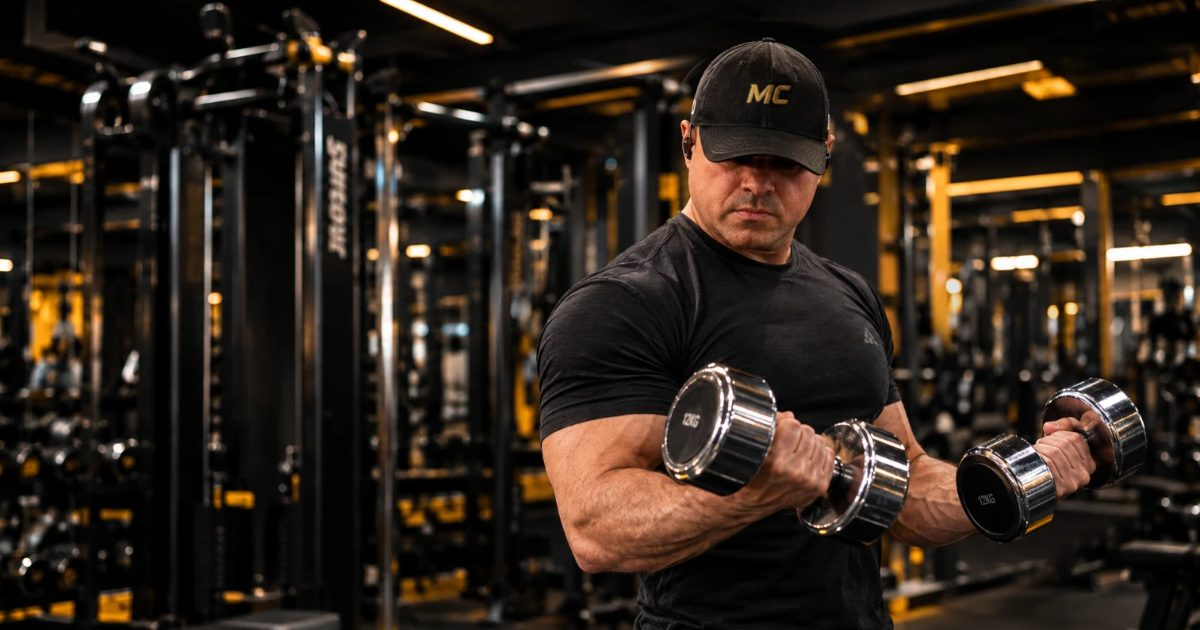
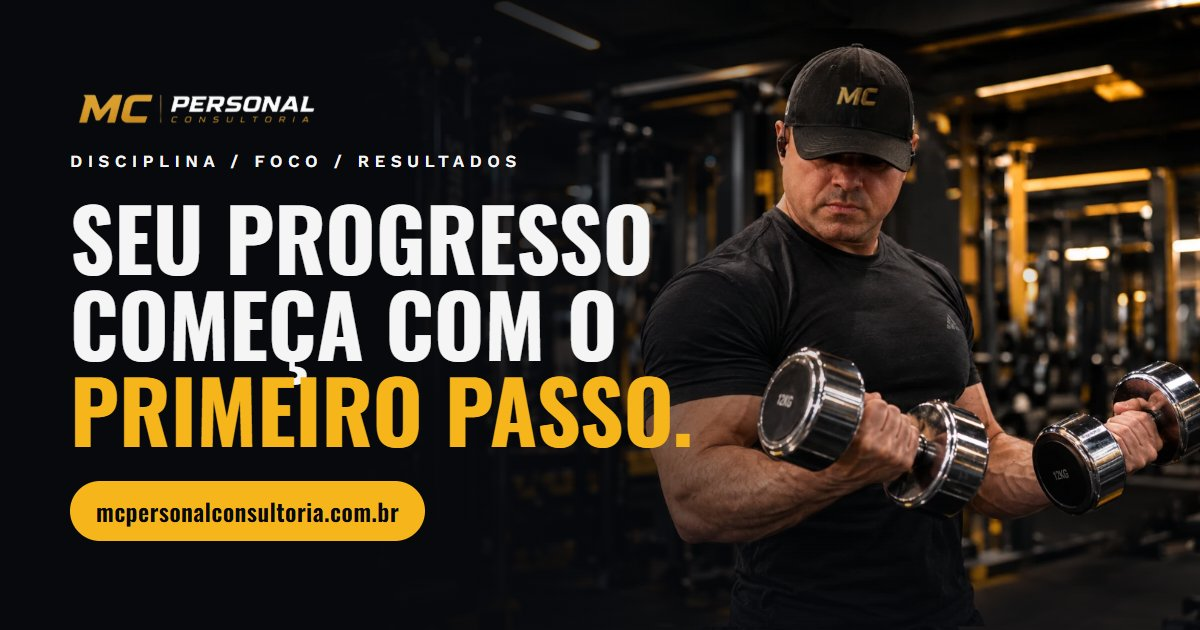
aponta o site para o domínio próprio e adiciona página 404 e llms.txt
- canonical, og, JSON-LD, sitemap e robots com mcpersonalconsultoria.com.br
- nova imagem de compartilhamento no estilo do hero
- 404.html para o Cloudflare Pages responder 404 em endereços que não existem
- llms.txt com o resumo do site para assistentes de IA

diff --git a/404.html b/404.html
@@ -1,0 +1,80 @@
+<!doctype html>
+<html lang="pt-BR">
+  <head>
+    <meta charset="UTF-8" />
+    <meta name="viewport" content="width=device-width, initial-scale=1.0" />
+    <meta name="robots" content="noindex" />
+    <meta name="theme-color" content="#07090d" />
+    <title>Página não encontrada | MC Personal Consultoria</title>
+    <link rel="icon" href="/assets/favicon.png" />
+    <link rel="preconnect" href="https://fonts.googleapis.com" />
+    <link rel="preconnect" href="https://fonts.gstatic.com" crossorigin />
+    <!-- caminhos começam com / porque esta página aparece em qualquer endereço que não existe -->
+    <link rel="stylesheet" href="/css/style.css" />
+  </head>
+  <body>
+    <svg class="icons" hidden>
+      <symbol id="icon-whatsapp" viewBox="0 0 24 24">
+        <path
+          fill="currentColor"
+          d="M17.47 14.38c-.3-.15-1.76-.87-2.03-.97-.27-.1-.47-.15-.67.15-.2.3-.77.97-.94 1.16-.17.2-.35.22-.64.07-.3-.15-1.26-.46-2.39-1.47-.88-.79-1.48-1.76-1.65-2.06-.17-.3-.02-.46.13-.61.13-.13.3-.35.45-.52.15-.17.2-.3.3-.5.1-.2.05-.37-.03-.52-.07-.15-.67-1.61-.92-2.21-.24-.58-.49-.5-.67-.51h-.57c-.2 0-.52.07-.79.37-.27.3-1.04 1.02-1.04 2.48 0 1.46 1.07 2.88 1.21 3.07.15.2 2.1 3.2 5.08 4.49.71.31 1.26.49 1.7.63.71.23 1.36.2 1.87.12.57-.09 1.76-.72 2.01-1.41.25-.7.25-1.29.17-1.41-.07-.13-.27-.2-.57-.35m-5.42 7.4h-.01a9.87 9.87 0 0 1-5.03-1.38l-.36-.21-3.74.98 1-3.65-.24-.37a9.86 9.86 0 0 1-1.51-5.26c0-5.45 4.44-9.88 9.89-9.88 2.64 0 5.12 1.03 6.99 2.9a9.83 9.83 0 0 1 2.89 6.99c0 5.45-4.44 9.88-9.88 9.88m8.41-18.3A11.82 11.82 0 0 0 12.05 0C5.5 0 .16 5.34.16 11.89c0 2.1.55 4.14 1.59 5.95L.06 24l6.3-1.65a11.88 11.88 0 0 0 5.68 1.45h.01c6.55 0 11.89-5.34 11.89-11.89a11.82 11.82 0 0 0-3.48-8.41Z"
+        />
+      </symbol>
+      <symbol id="icon-arrow" viewBox="0 0 24 24">
+        <g
+          fill="none"
+          stroke="currentColor"
+          stroke-width="2"
+          stroke-linecap="round"
+          stroke-linejoin="round"
+        >
+          <path d="M5 12h14" />
+          <path d="m12 5 7 7-7 7" />
+        </g>
+      </symbol>
+    </svg>
+
+    <main>
+      <section class="not-found">
+        <div class="not-found-content">
+          <a class="not-found-logo" href="/">
+            <img
+              class="not-found-img"
+              src="/assets/logo.webp"
+              alt="Logo da MC Personal Consultoria"
+              width="480"
+              height="75"
+            />
+          </a>
+          <div class="not-found-copy">
+            <p class="not-found-number" aria-hidden="true">404</p>
+            <h1 class="section-headline">
+              Página <span class="destaque">não encontrada</span>
+            </h1>
+            <p class="not-found-text">
+              O endereço que você procurou não existe ou mudou de lugar. Volte
+              para o início e conheça a consultoria.
+            </p>
+            <a class="primary-button" href="/">
+              Voltar para o início
+              <svg class="button-icon" aria-hidden="true">
+                <use href="#icon-arrow" />
+              </svg>
+            </a>
+            <a
+              class="not-found-link"
+              href="https://wa.me/556181482244?text=Olá!%20Vim%20pelo%20site%20e%20quero%20começar."
+              target="_blank"
+              rel="noopener noreferrer"
+            >
+              <svg class="not-found-link-img" aria-hidden="true">
+                <use href="#icon-whatsapp" />
+              </svg>
+              Ou fale com a gente pelo WhatsApp
+            </a>
+          </div>
+        </div>
+      </section>
+    </main>
+  </body>
+</html>

diff --git a/css/not-found.css b/css/not-found.css
@@ -1,0 +1,96 @@
+/*==========mobile==========*/
+/* página de endereço inexistente (404.html): ocupa a tela toda, com o Márcio de costas ao fundo */
+.not-found {
+  display: flex;
+  align-items: center;
+  min-height: 100vh;
+  min-height: 100svh;
+  padding: 3rem 1rem;
+  background-color: var(--background-color);
+  background-image:
+    linear-gradient(
+      180deg,
+      var(--overlay-medium-color),
+      var(--overlay-color)
+    ),
+    url("../assets/bg-cta.webp");
+  background-position: 80% center;
+  background-size: cover;
+}
+.not-found-content {
+  display: flex;
+  flex-direction: column;
+  gap: 3rem;
+  width: 100%;
+  max-width: var(--container-width);
+  margin-inline: auto;
+}
+/* o link do logo ocupa só o tamanho da imagem, não a largura toda */
+.not-found-logo {
+  display: flex;
+  align-self: flex-start;
+}
+.not-found-img {
+  width: 180px;
+  height: auto;
+}
+.not-found-copy {
+  display: flex;
+  flex-direction: column;
+  align-items: flex-start;
+  gap: 1.25rem;
+  max-width: 520px;
+}
+/* número grande só com o contorno, para não brigar com o título */
+.not-found-number {
+  font-family: var(--ftitle);
+  font-size: var(--fs-xg);
+  font-weight: var(--title-weight);
+  color: transparent;
+  line-height: 1;
+  -webkit-text-stroke: 2px var(--primary-color);
+}
+.not-found-text {
+  font-size: var(--fs-base);
+  color: var(--text-color);
+  line-height: 1.6;
+}
+.not-found-link {
+  display: flex;
+  align-items: center;
+  gap: 0.6rem;
+  font-size: var(--fs-detail);
+  color: var(--title-color);
+  text-decoration: underline;
+  text-underline-offset: 0.2em;
+  transition: all 0.3s;
+}
+.not-found-link:hover {
+  color: var(--primary-color);
+}
+.not-found-link-img {
+  width: 20px;
+  height: 20px;
+  color: var(--whatsapp-color);
+}
+/*==========tablet==========*/
+/* a partir do tablet o Márcio fica à direita e o texto ocupa o lado escuro */
+@media screen and (min-width: 768px) {
+  .not-found {
+    padding: 4rem 2rem;
+    background-image:
+      linear-gradient(
+        90deg,
+        var(--overlay-color) 35%,
+        var(--overlay-light-color)
+      ),
+      url("../assets/bg-cta.webp");
+    background-position: right center;
+  }
+  .not-found-img {
+    width: 220px;
+  }
+  .not-found-number {
+    font-size: calc(var(--fs-xg) * 1.6);
+  }
+}

diff --git a/index.html b/index.html
@@ -19,20 +19,20 @@
       property="og:description"
       content="Consultoria e treino online com Márcio Carvalho, personal trainer de Brasília. Treinos personalizados e acompanhamento de perto para todo o Brasil."
     />
-    <!-- URLs da Vercel: trocar quando o site tiver domínio próprio -->
-    <meta property="og:url" content="https://mcpersonal.vercel.app/" />
+    <!-- URLs absolutas do domínio próprio: se o domínio mudar, trocar aqui, no sitemap.xml e no robots.txt -->
+    <meta property="og:url" content="https://mcpersonalconsultoria.com.br/" />
     <meta
       property="og:image"
-      content="https://mcpersonal.vercel.app/assets/og-image.jpg"
+      content="https://mcpersonalconsultoria.com.br/assets/og-image.jpg"
     />
     <meta property="og:image:width" content="1200" />
     <meta property="og:image:height" content="630" />
     <meta
       property="og:image:alt"
-      content="Márcio Carvalho, personal trainer, treinando com halteres na academia"
+      content="Márcio Carvalho treinando com halteres ao lado da frase Seu progresso começa com o primeiro passo"
     />
     <meta name="twitter:card" content="summary_large_image" />
-    <link rel="canonical" href="https://mcpersonal.vercel.app/" />
+    <link rel="canonical" href="https://mcpersonalconsultoria.com.br/" />
     <link rel="icon" href="assets/favicon.png" />
     <!-- a foto do hero está no CSS e só seria achada depois da cadeia de @import; o preload antecipa -->
     <link
@@ -56,9 +56,9 @@
         "@type": "ProfessionalService",
         "name": "MC Personal Consultoria",
         "description": "Consultoria e treino online com personal trainer: treinos personalizados, ajustados toda semana à rotina do aluno, com acompanhamento de perto.",
-        "url": "https://mcpersonal.vercel.app/",
-        "image": "https://mcpersonal.vercel.app/assets/og-image.jpg",
-        "logo": "https://mcpersonal.vercel.app/assets/logo.webp",
+        "url": "https://mcpersonalconsultoria.com.br/",
+        "image": "https://mcpersonalconsultoria.com.br/assets/og-image.jpg",
+        "logo": "https://mcpersonalconsultoria.com.br/assets/logo.webp",
         "telephone": "+55 61 8148-2244",
         "email": "mcpersonalconsultoria@gmail.com",
         "address": {

diff --git a/css/style.css b/css/style.css
@@ -9,3 +9,4 @@
 @import url(contact.css);
 @import url(cta-final.css);
 @import url(footer.css);
+@import url(not-found.css);
